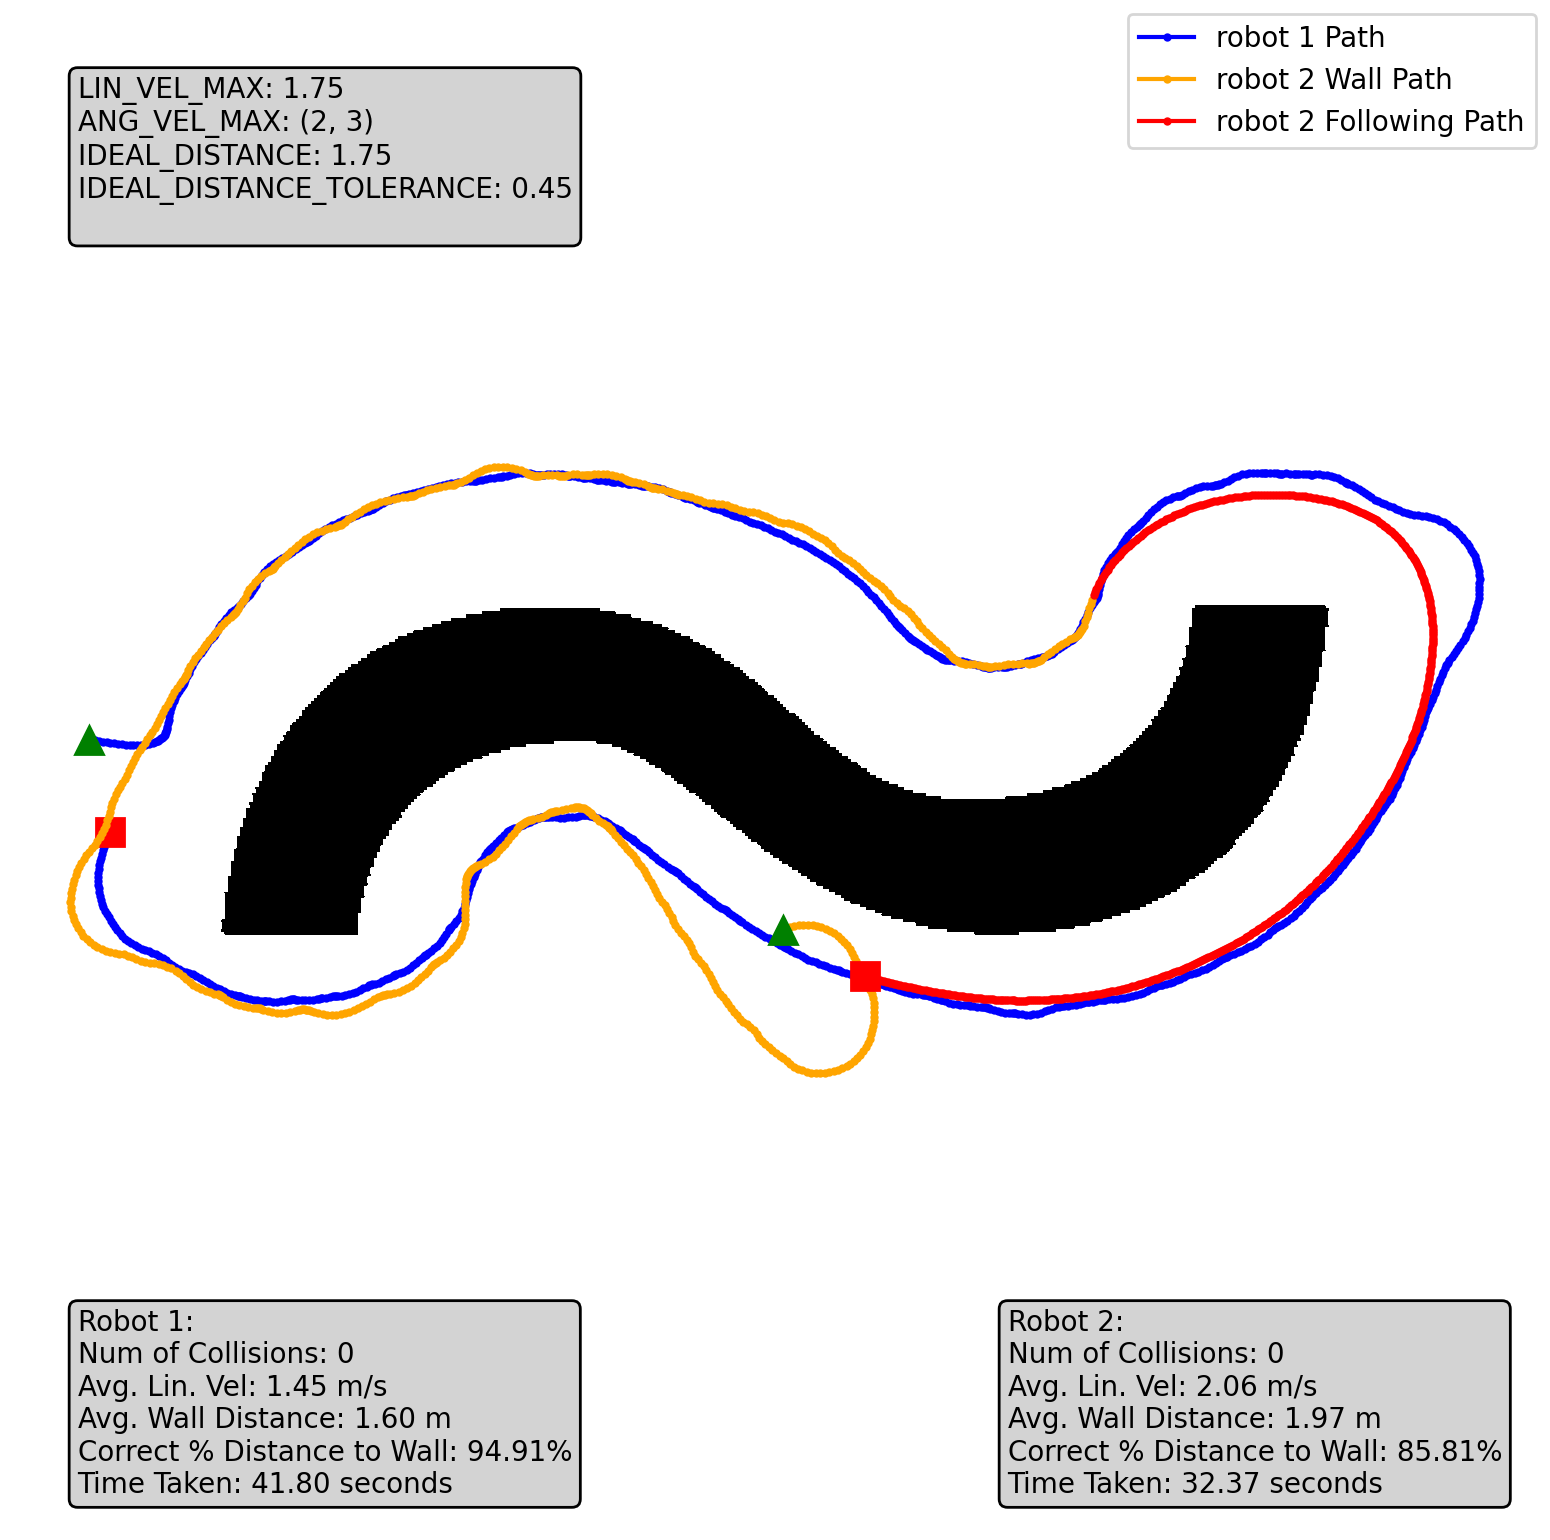
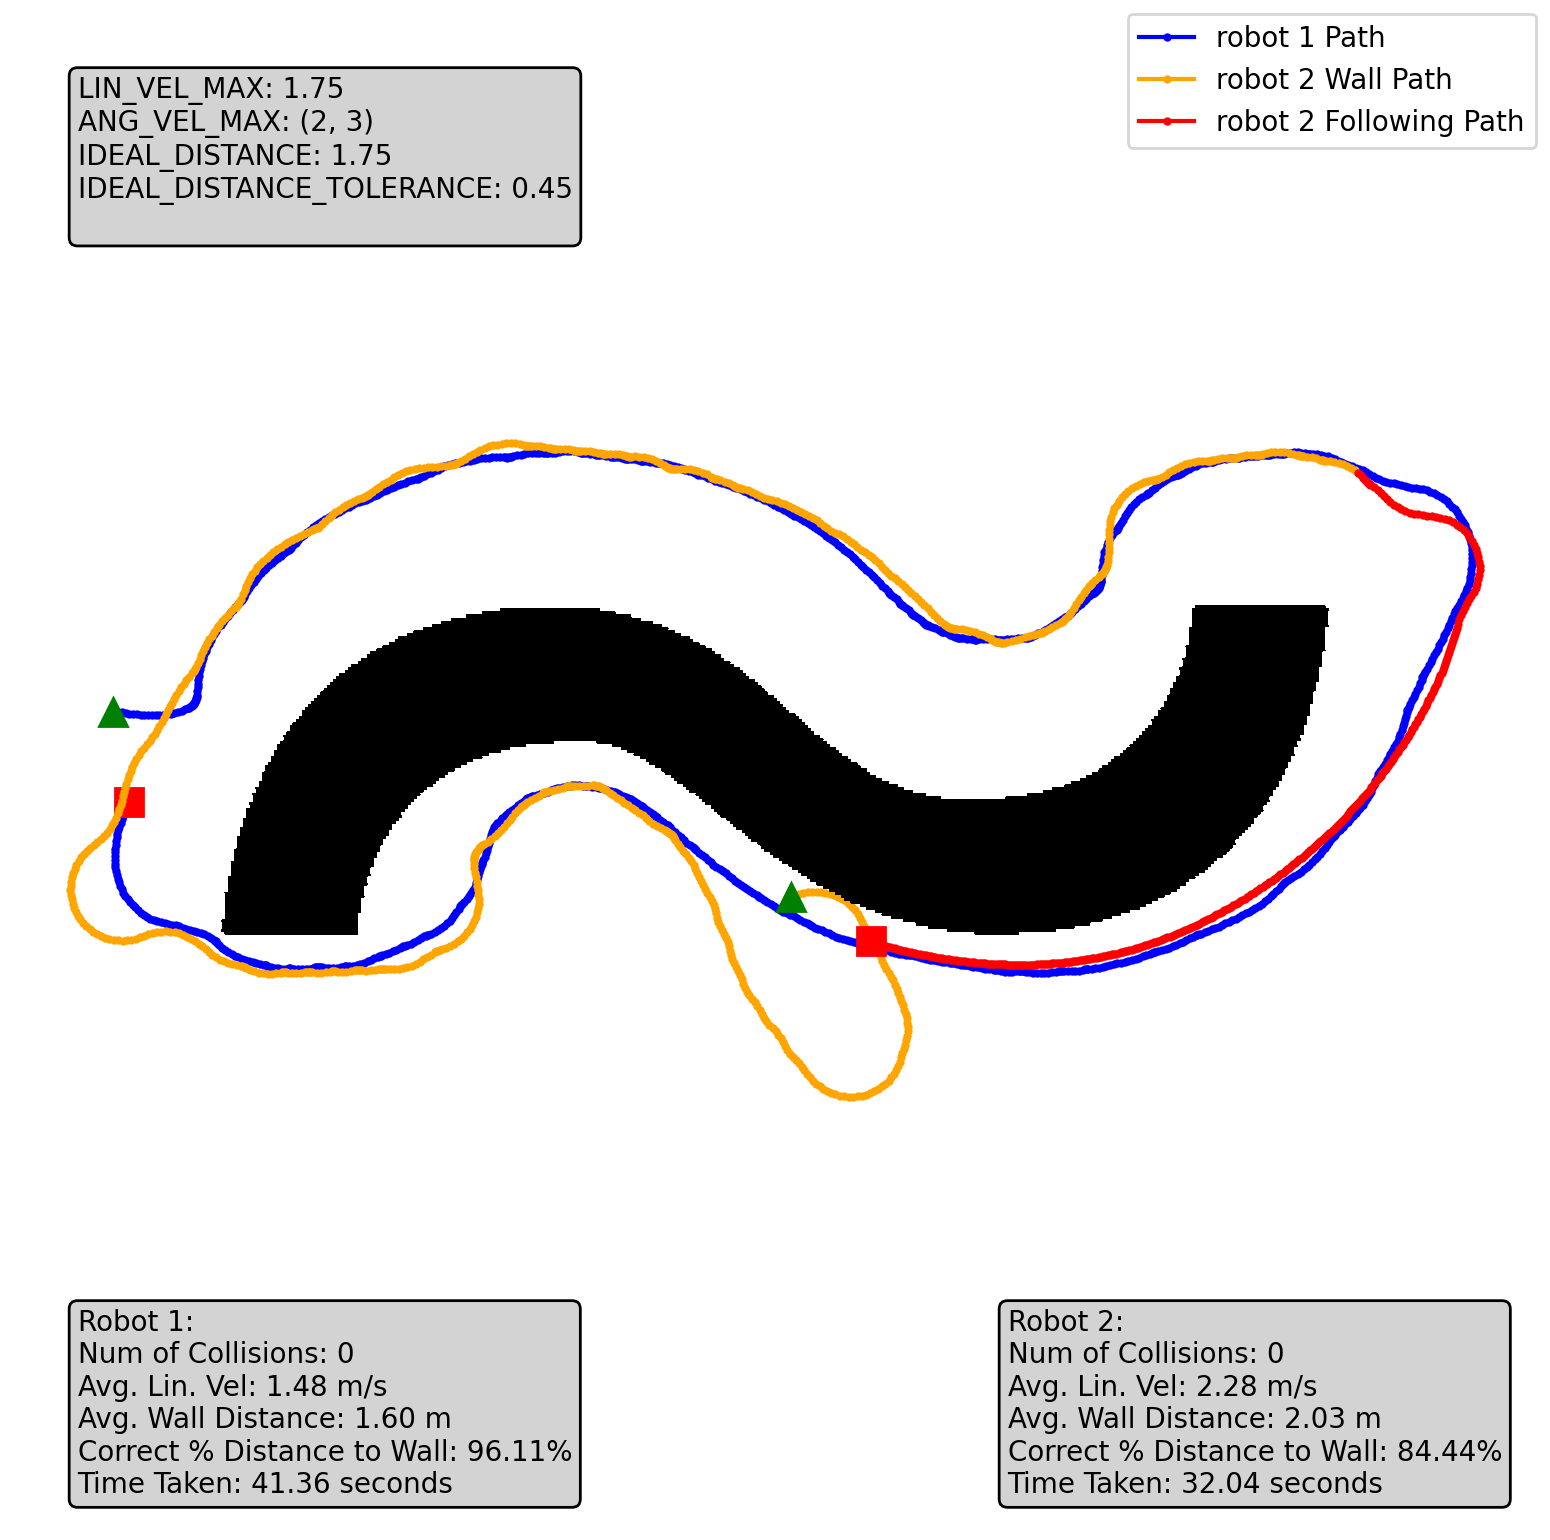
Stuff

diff --git a/workspace/src/robots/params.py b/workspace/src/robots/params.py
@@ -4,14 +4,14 @@ import math
 LOG_MODE = True
 STATISTIC_ANALYSIS = True
 STOP_IF_COLLISION = True
-
+  
 RANDOM_START_POS = False
 
 # PD Controller Constants
 BASIC_CONTROLLER_1 = False 
 BASIC_CONTROLLER_2 = False
-Kp = 2.795  # Proportional gain (higher value makes the robot follow the wall more closely, but can lead to oscillations)
-Kd = 1.675  # Derivative gain (higher value makes the robot follow the wall more smoothly, but can lead to overshooting)
+Kp = 2.12  # Proportional gain (higher value makes the robot follow the wall more closely, but can lead to oscillations)
+Kd = 1.45  # Derivative gain (higher value makes the robot follow the wall more smoothly, but can lead to overshooting)
 
 # Robot 2 speficic parameters
 SPEED_DIFF2 = 1.65 # 65% faster in both linear and angular speeds than robot 1
